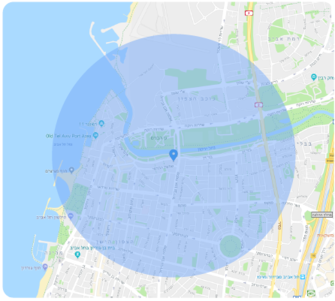
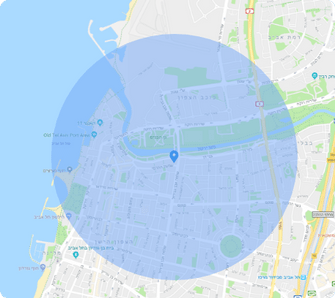
fixed sender 3 image

diff --git a/includes/style.css b/includes/style.css
@@ -355,7 +355,7 @@
 	position:relative;
 	background-image: url("../images/serachMap2.png");
 	background-repeat: no-repeat;
-	height:301px;
+	height:298px;
 	width:335px;
 	top:-25px;
 }
